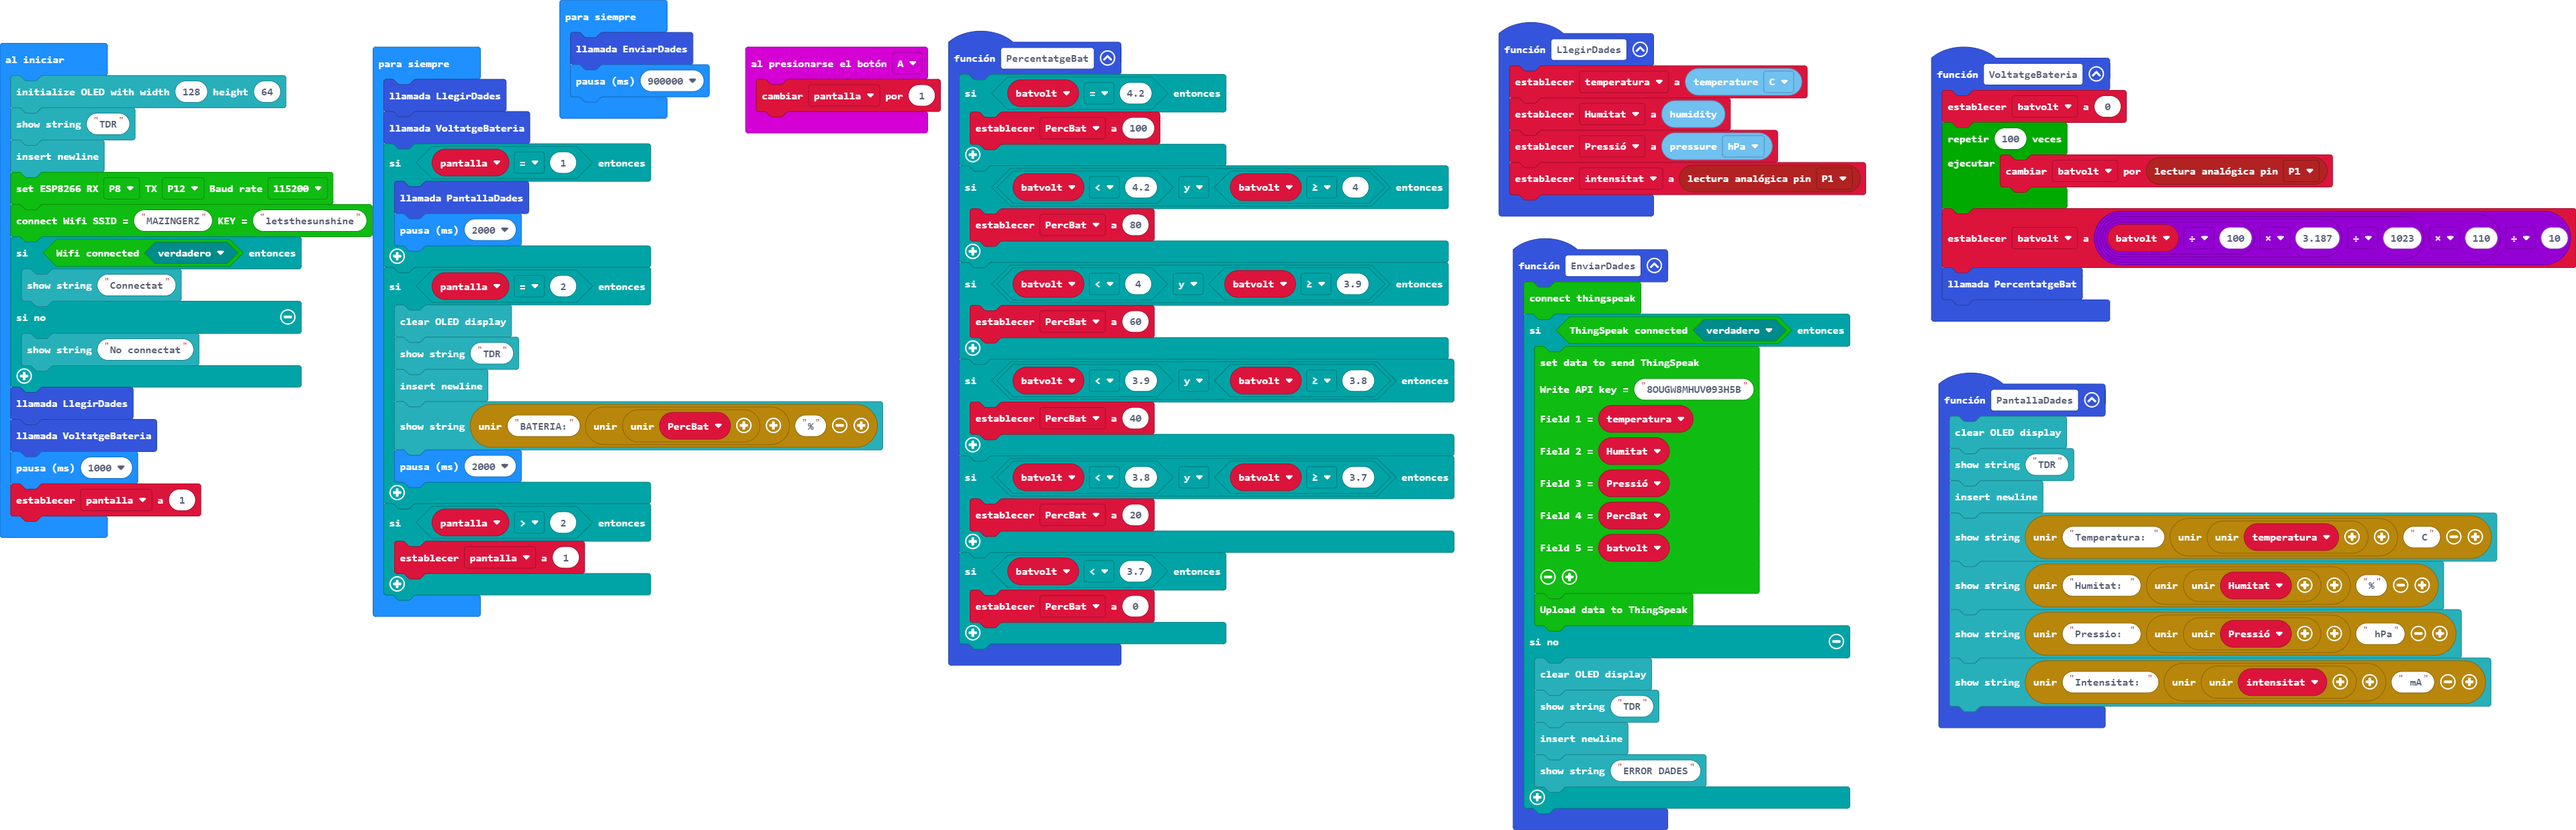
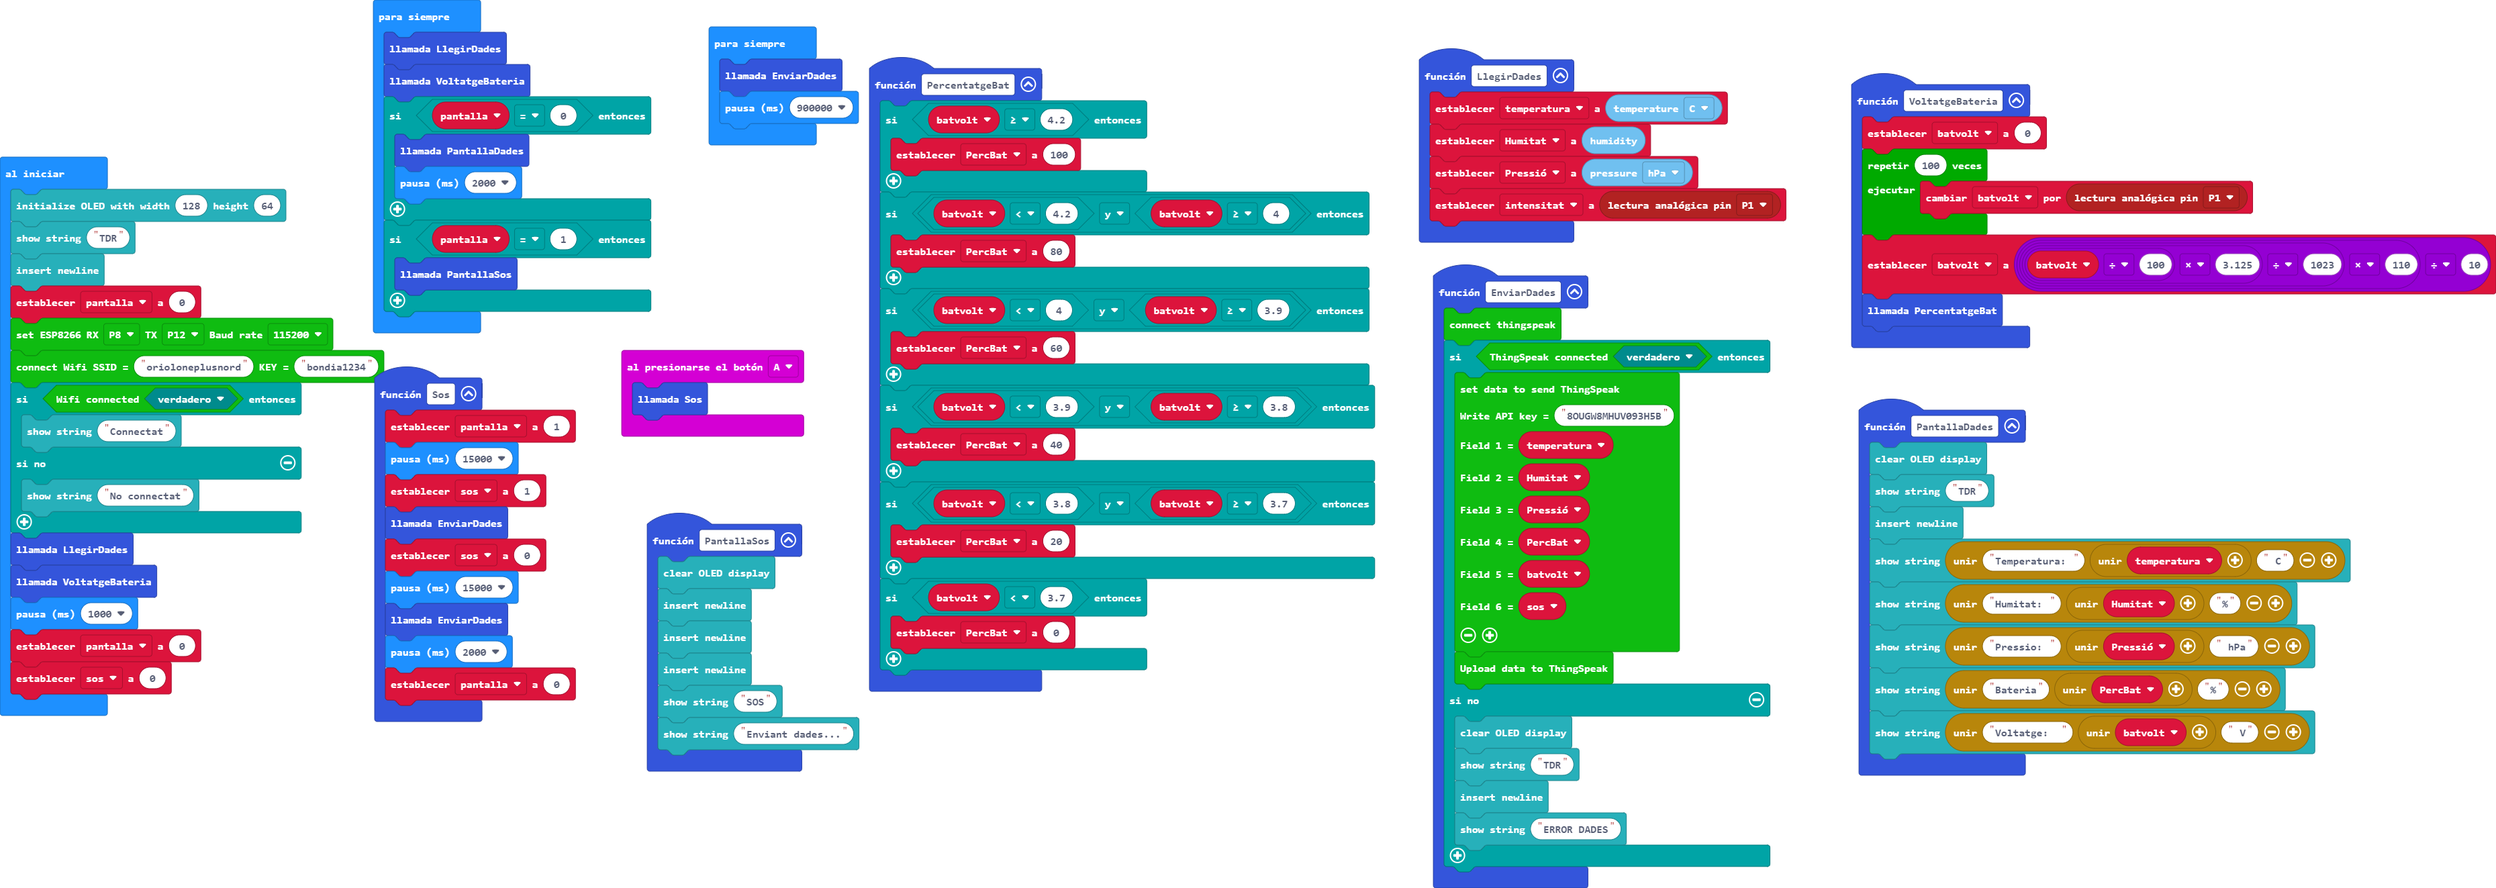
Actualizar main.blocks, main.ts

diff --git a/main.ts b/main.ts
@@ -5,10 +5,11 @@ function PantallaDades () {
     OLED.writeStringNewLine("Temperatura: " + ("" + temperatura) + " C")
     OLED.writeStringNewLine("Humitat: " + ("" + Humitat) + "%")
     OLED.writeStringNewLine("Pressio: " + ("" + Pressió) + " hPa")
-    OLED.writeStringNewLine("Intensitat: " + ("" + intensitat) + " mA")
+    OLED.writeStringNewLine("Bateria" + ("" + PercBat) + "%")
+    OLED.writeStringNewLine("Voltatge:  " + ("" + batvolt) + " V")
 }
 input.onButtonPressed(Button.A, function () {
-    pantalla += 1
+    Sos()
 })
 function LlegirDades () {
     temperatura = BME280.temperature(BME280_T.T_C)
@@ -25,7 +26,8 @@ function EnviarDades () {
         Humitat,
         Pressió,
         PercBat,
-        batvolt
+        batvolt,
+        sos
         )
         ESP8266_IoT.uploadData()
     } else {
@@ -35,16 +37,27 @@ function EnviarDades () {
         OLED.writeStringNewLine("ERROR DADES")
     }
 }
+function Sos () {
+    pantalla = 1
+    basic.pause(15000)
+    sos = 1
+    EnviarDades()
+    sos = 0
+    basic.pause(15000)
+    EnviarDades()
+    basic.pause(2000)
+    pantalla = 0
+}
 function VoltatgeBateria () {
     batvolt = 0
     for (let index = 0; index < 100; index++) {
         batvolt += pins.analogReadPin(AnalogPin.P1)
     }
-    batvolt = batvolt / 100 * 3.187 / 1023 * 110 / 10
+    batvolt = batvolt / 100 * 3.125 / 1023 * 110 / 10
     PercentatgeBat()
 }
 function PercentatgeBat () {
-    if (batvolt == 4.2) {
+    if (batvolt >= 4.2) {
         PercBat = 100
     }
     if (batvolt < 4.2 && batvolt >= 4) {
@@ -63,17 +76,28 @@ function PercentatgeBat () {
         PercBat = 0
     }
 }
+function PantallaSos () {
+    OLED.clear()
+    OLED.newLine()
+    OLED.newLine()
+    OLED.newLine()
+    OLED.writeStringNewLine("SOS")
+    OLED.writeStringNewLine("Enviant dades...")
+}
+let intensitat = 0
 let batvolt = 0
 let PercBat = 0
-let intensitat = 0
 let Pressió = 0
 let Humitat = 0
 let temperatura = 0
+let sos = 0
+let pantalla = 0
 OLED.init(128, 64)
 OLED.writeStringNewLine("TDR")
 OLED.newLine()
+pantalla = 0
 ESP8266_IoT.initWIFI(SerialPin.P8, SerialPin.P12, BaudRate.BaudRate115200)
-ESP8266_IoT.connectWifi("MAZINGERZ", "letsthesunshine")
+ESP8266_IoT.connectWifi("orioloneplusnord", "bondia1234")
 if (ESP8266_IoT.wifiState(true)) {
     OLED.writeStringNewLine("Connectat")
 } else {
@@ -82,26 +106,20 @@ if (ESP8266_IoT.wifiState(true)) {
 LlegirDades()
 VoltatgeBateria()
 basic.pause(1000)
-let pantalla = 1
-basic.forever(function () {
-    EnviarDades()
-    basic.pause(900000)
-})
+pantalla = 0
+sos = 0
 basic.forever(function () {
     LlegirDades()
     VoltatgeBateria()
-    if (pantalla == 1) {
+    if (pantalla == 0) {
         PantallaDades()
         basic.pause(2000)
     }
-    if (pantalla == 2) {
-        OLED.clear()
-        OLED.writeStringNewLine("TDR")
-        OLED.newLine()
-        OLED.writeStringNewLine("BATERIA:" + ("" + PercBat) + "%")
-        basic.pause(2000)
+    if (pantalla == 1) {
+        PantallaSos()
     }
-    if (pantalla > 2) {
-        pantalla = 1
-    }
+})
+basic.forever(function () {
+    EnviarDades()
+    basic.pause(900000)
 })
